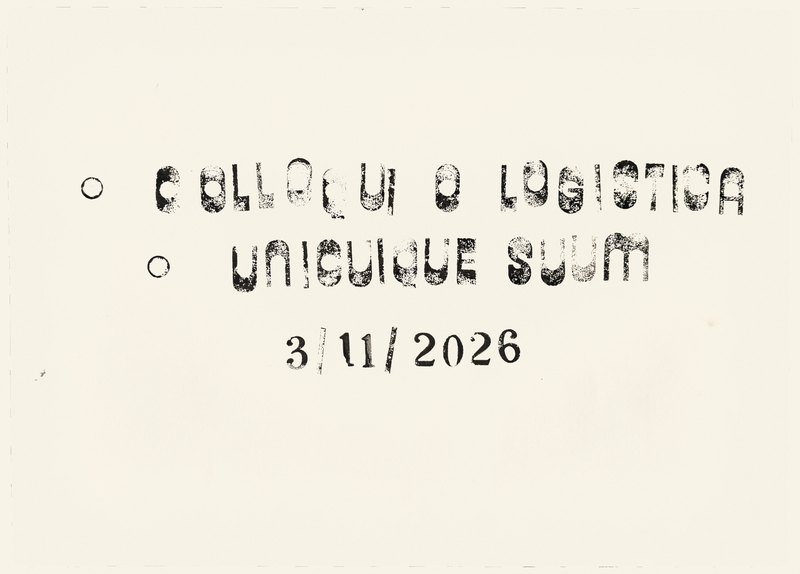
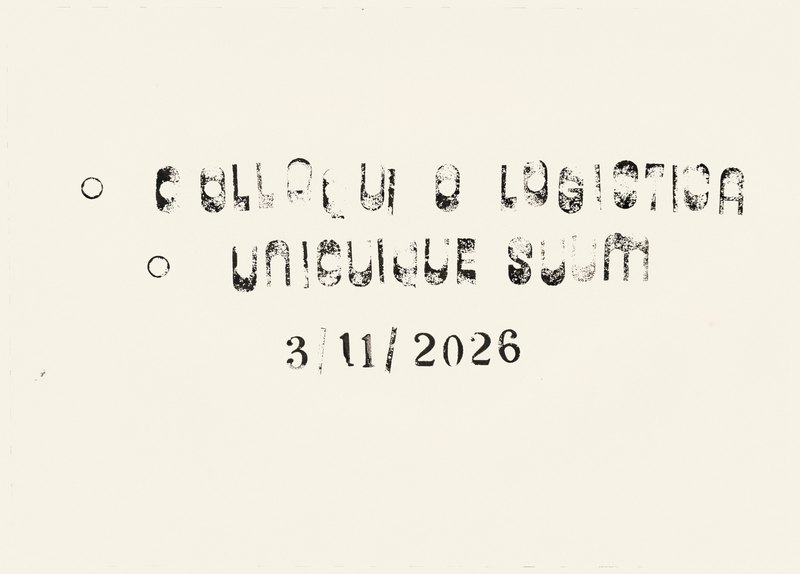
add 7 new (7-9, 11-13/11) + replace 3/11 and 10/11 with clean versions

diff --git a/index.html b/index.html
@@ -9,7 +9,7 @@
 <meta property="og:description" content="Opere su carta. Ogni opera porta la data del giorno in cui è stata fatta." />
 <meta property="og:type" content="website" />
 <meta property="og:url" content="https://sebastianofurlotti.com/" />
-<meta property="og:image" content="foto_definitive/Timbro_2026-11-06.jpg" />
+<meta property="og:image" content="foto_definitive/Timbro_2026-11-13.jpg" />
 <meta name="twitter:card" content="summary_large_image" />
 <link rel="canonical" href="https://sebastianofurlotti.com/" />
 
@@ -682,6 +682,76 @@ section#timbri{ padding-top: clamp(96px, 11vw, 140px); }
      ═══════════════════════════════════════════════════════════════════ -->
 <section class="page" id="timbri">
   <div class="gallery" id="gallery">
+    <figure class="work">
+      <div class="work-frame" style="--ratio: 73.39%;">
+        <img src="foto_definitive/Timbro_2026-11-13.jpg"
+             srcset="foto_definitive/thumbs/Timbro_2026-11-13.jpg 800w, foto_definitive/Timbro_2026-11-13.jpg 1800w"
+             sizes="(max-width: 720px) 92vw, 720px"
+             width="1800" height="1321"
+             alt="13/11/26" loading="lazy" decoding="async" />
+      </div>
+      <figcaption class="work-caption"><span class="work-date">13/11/26</span></figcaption>
+    </figure>
+    <figure class="work">
+      <div class="work-frame" style="--ratio: 73.39%;">
+        <img src="foto_definitive/Timbro_2026-11-12.jpg"
+             srcset="foto_definitive/thumbs/Timbro_2026-11-12.jpg 800w, foto_definitive/Timbro_2026-11-12.jpg 1800w"
+             sizes="(max-width: 720px) 92vw, 720px"
+             width="1800" height="1321"
+             alt="12/11/26" loading="lazy" decoding="async" />
+      </div>
+      <figcaption class="work-caption"><span class="work-date">12/11/26</span></figcaption>
+    </figure>
+    <figure class="work">
+      <div class="work-frame" style="--ratio: 72.56%;">
+        <img src="foto_definitive/Timbro_2026-11-11.jpg"
+             srcset="foto_definitive/thumbs/Timbro_2026-11-11.jpg 800w, foto_definitive/Timbro_2026-11-11.jpg 1800w"
+             sizes="(max-width: 720px) 92vw, 720px"
+             width="1800" height="1306"
+             alt="11/11/26" loading="lazy" decoding="async" />
+      </div>
+      <figcaption class="work-caption"><span class="work-date">11/11/26</span></figcaption>
+    </figure>
+    <figure class="work">
+      <div class="work-frame" style="--ratio: 71.44%;">
+        <img src="foto_definitive/Timbro_2026-11-10.jpg"
+             srcset="foto_definitive/thumbs/Timbro_2026-11-10.jpg 800w, foto_definitive/Timbro_2026-11-10.jpg 1800w"
+             sizes="(max-width: 720px) 92vw, 720px"
+             width="1800" height="1286"
+             alt="10/11/26" loading="lazy" decoding="async" />
+      </div>
+      <figcaption class="work-caption"><span class="work-date">10/11/26</span></figcaption>
+    </figure>
+    <figure class="work">
+      <div class="work-frame" style="--ratio: 73.28%;">
+        <img src="foto_definitive/Timbro_2026-11-09.jpg"
+             srcset="foto_definitive/thumbs/Timbro_2026-11-09.jpg 800w, foto_definitive/Timbro_2026-11-09.jpg 1800w"
+             sizes="(max-width: 720px) 92vw, 720px"
+             width="1800" height="1319"
+             alt="9/11/26" loading="lazy" decoding="async" />
+      </div>
+      <figcaption class="work-caption"><span class="work-date">9/11/26</span></figcaption>
+    </figure>
+    <figure class="work">
+      <div class="work-frame" style="--ratio: 73.28%;">
+        <img src="foto_definitive/Timbro_2026-11-08.jpg"
+             srcset="foto_definitive/thumbs/Timbro_2026-11-08.jpg 800w, foto_definitive/Timbro_2026-11-08.jpg 1800w"
+             sizes="(max-width: 720px) 92vw, 720px"
+             width="1800" height="1319"
+             alt="8/11/26" loading="lazy" decoding="async" />
+      </div>
+      <figcaption class="work-caption"><span class="work-date">8/11/26</span></figcaption>
+    </figure>
+    <figure class="work">
+      <div class="work-frame" style="--ratio: 72.06%;">
+        <img src="foto_definitive/Timbro_2026-11-07.jpg"
+             srcset="foto_definitive/thumbs/Timbro_2026-11-07.jpg 800w, foto_definitive/Timbro_2026-11-07.jpg 1800w"
+             sizes="(max-width: 720px) 92vw, 720px"
+             width="1800" height="1297"
+             alt="7/11/26" loading="lazy" decoding="async" />
+      </div>
+      <figcaption class="work-caption"><span class="work-date">7/11/26</span></figcaption>
+    </figure>
     <figure class="work">
       <div class="work-frame" style="--ratio: 73.72%;">
         <img src="foto_definitive/Timbro_2026-11-06.jpg"
